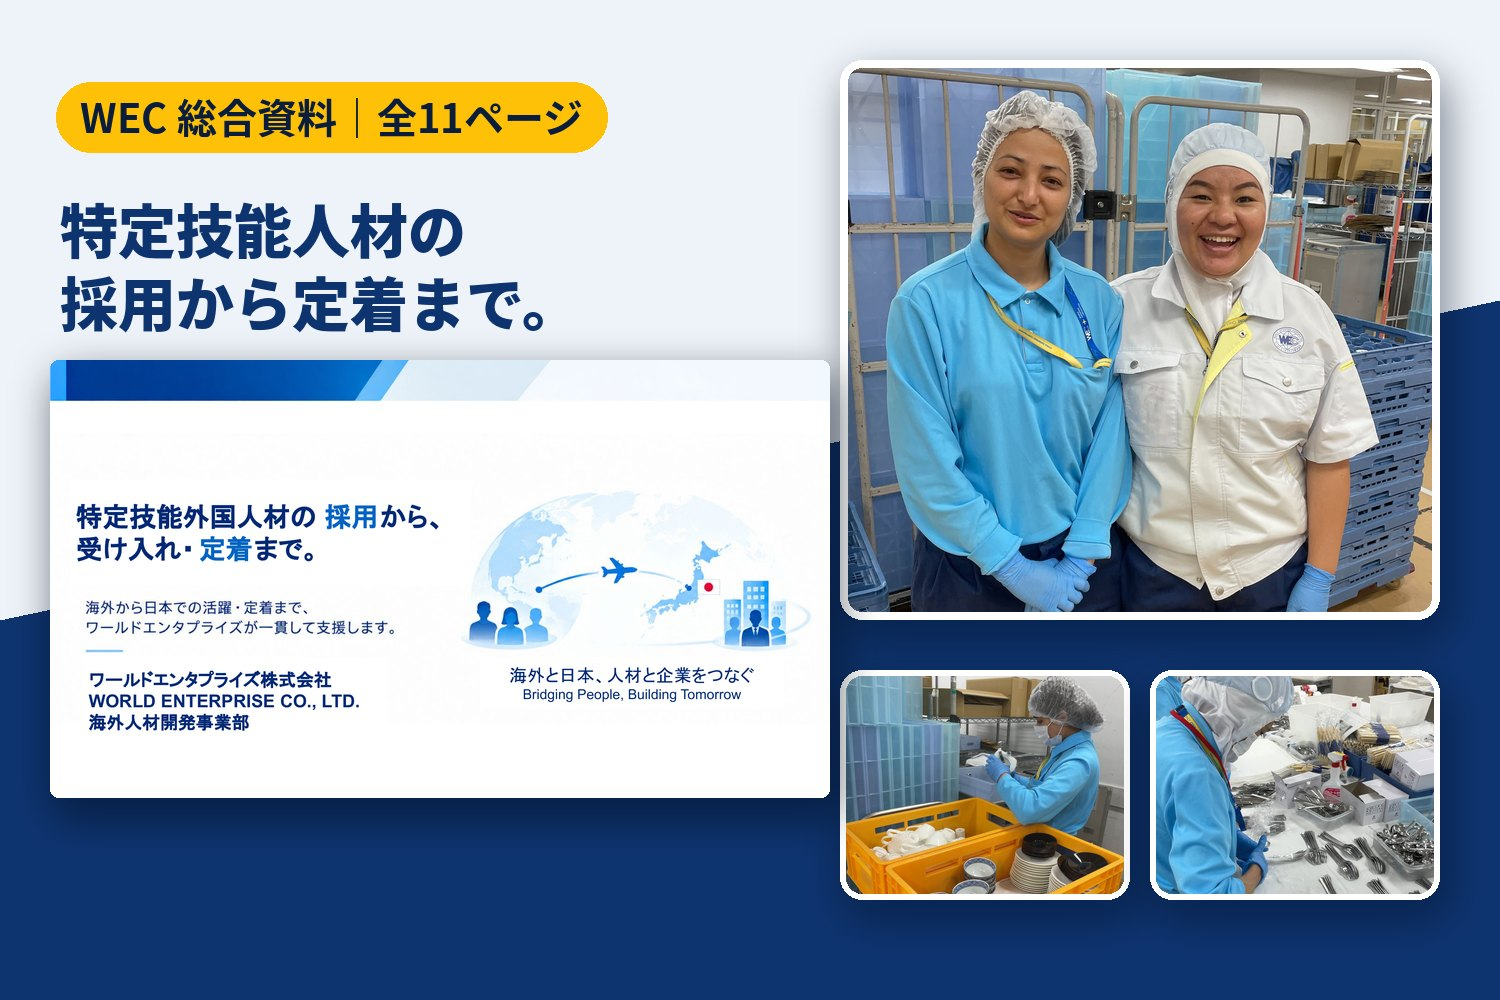
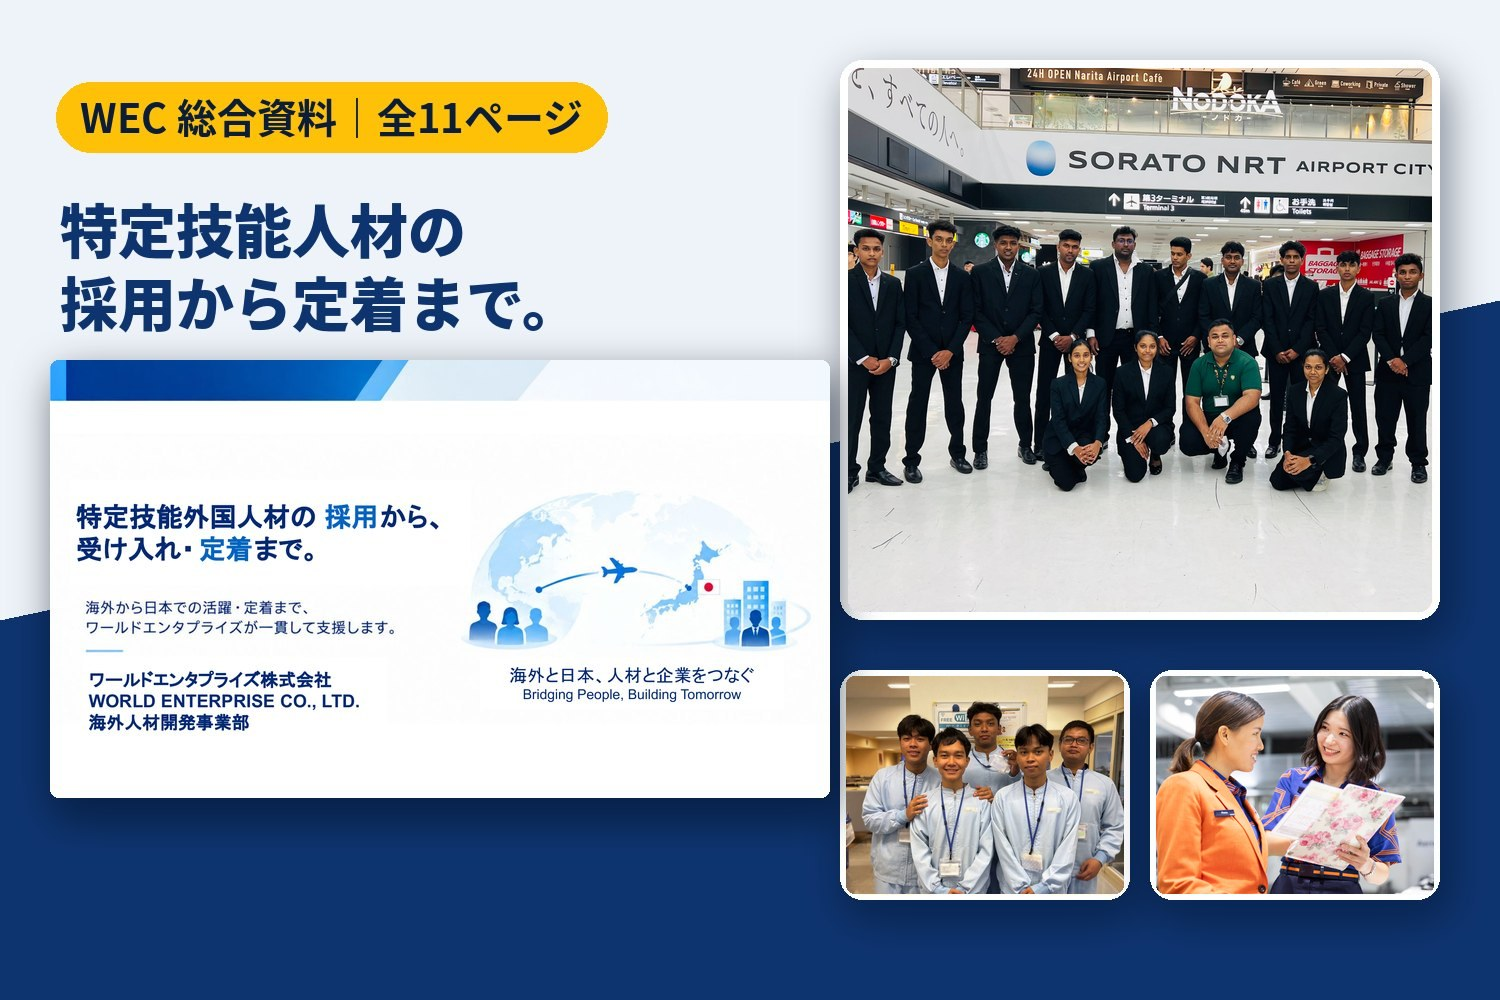
トップに登場アニメーション(写真が寄っていき、見出し・説明・ボタンが順に表示)を追加、強みと資料請求の写真を差し替え
- 強み: 工場の2人の写真を、空港で資料を見る2人の写真に
- 資料請求のサムネイルと右下のバナー: 成田空港に到着した人材・工場で働く人材・空港の2人の写真に

Claude-Session: https://claude.ai/code/session_014LQT5eJGL9oUZWcXo2RBLh

Changed region(s): [[0.552, 0.062, 0.9813, 0.62], [0.552, 0.651, 0.9813, 0.899]]

diff --git a/src/style.css b/src/style.css
@@ -3636,3 +3636,50 @@ img[src*="logo-ma"].logo-item {
 .header {
   isolation: isolate;
 }
+
+/* ===== ヒーローの登場アニメーション =====
+   写真: 引きの状態から、ゆっくり人物に寄っていく(暗めから明るく)
+   文字: 1行目が下からふわっと → 2行目(オレンジ)が左から現れる → 説明文 → ボタン の順に表示
+   JSで .hero に .anim を付けたときだけ隠す(JSが動かなくても文字が消えたままにならない)
+   写真の読み込みが済んで .is-ready が付いたら動き出す */
+@keyframes heroZoomIn {
+  from { transform: scale(1); filter: brightness(0.72) saturate(0.9); }
+  to   { transform: scale(1.12); filter: brightness(1) saturate(1); }
+}
+
+.hero.anim .hero-bg-img {
+  transform-origin: 50% 30%;
+  filter: brightness(0.72);
+}
+
+.hero.anim.is-ready .hero-bg-img {
+  animation: heroZoomIn 9s cubic-bezier(0.22, 0.61, 0.36, 1) forwards;
+}
+
+.hero.anim .hero-h1-lead,
+.hero.anim .hero-content p,
+.hero.anim .hero-btns {
+  opacity: 0;
+  transform: translateY(26px);
+  transition: opacity 0.9s ease, transform 1.1s cubic-bezier(0.2, 0.8, 0.2, 1);
+}
+
+.hero.anim .highlight {
+  display: inline-block;
+  clip-path: inset(-10% 100% -10% 0);
+  transition: clip-path 1.1s cubic-bezier(0.77, 0, 0.18, 1);
+}
+
+.hero.anim.is-ready .hero-h1-lead { opacity: 1; transform: none; transition-delay: 0.35s; }
+.hero.anim.is-ready .highlight { clip-path: inset(-10% -2% -10% 0); transition-delay: 0.8s; }
+.hero.anim.is-ready .hero-content p { opacity: 1; transform: none; transition-delay: 1.5s; }
+.hero.anim.is-ready .hero-btns { opacity: 1; transform: none; transition-delay: 1.8s; }
+
+@media (prefers-reduced-motion: reduce) {
+  .hero.anim .hero-bg-img,
+  .hero.anim.is-ready .hero-bg-img { animation: none; filter: none; transform: none; }
+  .hero.anim .hero-h1-lead,
+  .hero.anim .hero-content p,
+  .hero.anim .hero-btns,
+  .hero.anim .highlight { opacity: 1; transform: none; clip-path: none; transition: none; }
+}

diff --git a/src/main.js b/src/main.js
@@ -730,4 +730,17 @@ if (contactForm) {
 }
 
 // スクロールで要素をふわっと表示
-initReveal();
+initReveal()
+
+// ヒーローの登場アニメーション(写真が読み込めたら開始。遅くても1.5秒で開始)
+;(function () {
+  const hero = document.querySelector('.hero')
+  if (!hero) return
+  hero.classList.add('anim')
+  const img = hero.querySelector('.hero-bg-img')
+  let done = false
+  const go = () => { if (done) return; done = true; requestAnimationFrame(() => hero.classList.add('is-ready')) }
+  if (!img || img.complete) go()
+  else { img.addEventListener('load', go); img.addEventListener('error', go) }
+  setTimeout(go, 1500)
+})();
